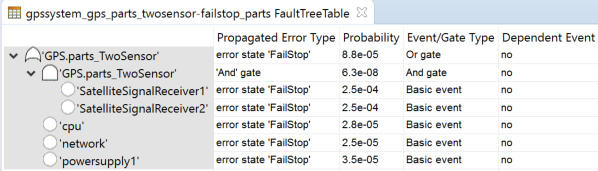
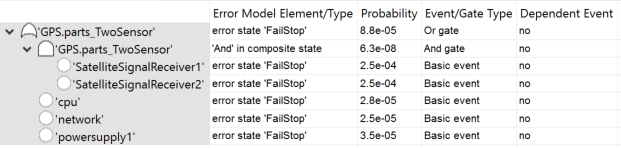
more updated figures and text.

diff --git a/emv2/org.osate.aadl2.errormodel.contrib/doc/safetyanalysis.md b/emv2/org.osate.aadl2.errormodel.contrib/doc/safetyanalysis.md
@@ -138,29 +138,45 @@ Intermediate events represent events whose subevents are combined by logic gates
 
 >Note that **Kof(1)** is the same as **Xor** of single elements, and **KOrMore(1)** is the same as **Or** of single elements.
 
-Eclipse Sirius is automatically invoked to visualize the fault trees graphically and in table format. An example graphical presentation of a fault tree shows the different event types. Each fault tree event shows the name of the component instance and incoming or outgoing feature in the first line. The second line identifies the propagated error type as **effect** and in case of an error source its name as **failure source**, and the third line the computed or assigned occurence probability. 
+Eclipse Sirius is automatically invoked to visualize the fault trees in table or graphical view. 
+
+An example graphical view of a fault tree (shown below) illustrates the different event types. The graphical view uses a compact presentation of events and gates by showing events as rectangles and the gate type as part of an event with multiple subevents. 
+Each fault tree event rectangle contains an icon reflecting the event type or gate logic type as well as three lines of text: 
+
+* The first line shows the name of the component instance and incoming or outgoing feature or binding point. 
+* The second line identifies the error model element represented by the fault tree event. Typically this is the error type of an error propagation, an error event, or error state, and in the case of an intermediate event that represents a logic condition, the gate logic and construct containing the logic condition.
+* The third line shows the computed or assigned occurence probability. 
+
+![FlightSystemTier1Graphic](images/flightsystemtier1.png "FlightSystemTier1Graphic")
+The example graphical view shows the following:
+
 * The top level fault tree event shows the outgoing features and propagated error type representing the outgoing error propagation selected by the user in the dialog. 
 * The basic events for components **FlightControl** and **AutoFlightGuidance** show an error type from an error soruce as effect through an outgoing features. 
 * An **undeveloped** event for component **AutoFlightGuidance** shows an incoming propagation from the **powersupply** incoming feature that has not been connected yet. 
 * Finally, an **external** event for component **flightsystem_tier1** shows an error type as incoming effect from outside the flight system.
-* 
-![FlightSystemTier1Graphic](images/flightsystemtier1.png "FlightSystemTier1Graphic")
 
-The table view of a fault tree shows the fault tree events hierarchically nested in the first column. The icon and the text in this column is the same as the first two lines of the graphical fault tree representation. The second column indicates the type of event, and in the case of an intermediate event the type of gate logic. The third column shows the occurrence probability as assigned or computed. The fourth column indicates whether the fault tree event is a common subevent to multiple events. The example shows a top level event with three basic subevents and one intermediate event as **and** gate.
+An example table view is shown below for a different fault tree. The example shows a top level event with three basic subevents and one intermediate event as **and** gate with two subevents.
+
+* The first column shows the fault tree events hierarchically nested. The icon and the text in this column is the same as the first line of the graphical fault tree representation. 
+* The second column shows error model element represented by the event (line 2 of the event in the graphical view).  
+* The third column shows the occurrence probability as assigned or computed. 
+* The fourth column indicates the event type, or in the case of an intermediate event with more than one subevent the gate logic. 
+* The fifth column indicates whether the fault tree event is a common (shared) subevent to multiple events, i.e., a dependent event. 
 
 ![GPS2SensorTable](images/fta-gps2sensorstatetable.png "GPS2SensorTable")
 
-###Error State-based Composite Parts Fault Tree Generation
+###Composite Error State-based Parts Fault Tree Generation
 
-One use early in the process is a composite parts fault tree generation. In this case users define a parts model, i.e., identify the parts of each system, and specify how the error states of the parts relate to the error states of the enclosing system through composite state declarations. Note that user can define such a model with error state machines at multiple level of a system architecture. Users also do not have to specify an error state machine for each level. Instead a higher level state can be expressed in terms of subsystems more than one level down. 
->This is similar to specifying reliability block diagrams (RBD) in a compositional manner, where the logic of the composite error behavior state corresponds to the logic represented graphically by parallel and serial blocks. It replaces the RBD command previous versions of OSATE supported.
+One use early in the process is a composite parts fault tree generation. In this case users define a parts model, i.e., identify the parts of each system, and specify how the error states of the parts relate to the error states of the enclosing system through composite state declarations. Note that user can define such a model with error state machines at multiple level of a system architecture. Users also do not have to specify an error state machine for each level. Instead a higher level state can be expressed in terms of subsystems more than one level down by identifying a subcomponent inside a subcomponent as the condition element. If the identified subcomponent also has composite error behavior specifications, then the generated fault tre recursively includes the identified composite error states. 
 
 An example of a composite error behavior state declaration is shown here. 
 > In EMV2 the **1 ormore** operator is used to indicate **inclusive oOr**, while the EMV2 **Or** operator represents **exclusive or**.
 
 ![Composite Error Behavior](images/compositeerrorbehavior.png "Composite Error Behavior")
 
-In our example, the package *GPSSystem* contains the top level GPS system with a number of implementations with different levels of detail and configurations. The parts model is represented by the system implementation *gps.parts_SingleSensor*. In this case, the fault tree analysis constructs a complete system fault tree from fault tree fragments based on the composite state declarations for a user-selected error state of the top-level system.
+In our example, the package *GPSSystem* contains the top level GPS system with a number of implementations with different levels of detail and configurations. The parts model is represented by the system implementation *gps.parts_TwoSensor*. The composite error behavior specifies that the state **FailStop** for **GPS** holds if both sensors that act as satellite signal receivers fail (AND), or any of the other parts fail. 
+
+>This is similar to specifying reliability block diagrams (RBD) in a compositional manner, where the logic of the composite error behavior state corresponds to the logic represented graphically by parallel and serial blocks. The **parts fault tree** replaces the RBD command from earlier versions of OSATE.
 
 Occurrence probability of the system error state (failure mode) is computed from the occurrence probability values assigned to the error states of the leaf nodes. The figure below shows the assignment of the occurrence probability value to the power supply.
 
@@ -170,20 +186,27 @@ Occurrence probability of the system error state (failure mode) is computed from
 > Occurrence probability is computed from the occurrence probability on error states of the parts. This allows you to use of an error state machine with states only, i.e., without specification of error events and transitions. If an error state machine has been included with error events and transitions, and you want the error event included in the generated fault tree, then use the propagation graph based fault tree generation.
 
 The resulting graphical fault tree looks like this.
-![GPS Composite FTA](images/fta-gps1sensor.png "GPS Composite FTA")
+![GPS Composite FTA](images/fta-gps2sensorstate.png "GPS Composite FTA")
 
-### Fault Tree Derived from Backward Trace of Propagation Graph
-In this case, the propagation paths in the propagaation graph are traversed backward to construct a fault tree representation. In other words, propagation paths along connections, bindings, and user declared propagation paths, as well as error flows from incoming propagations to outgoing propagations are interpreted. If component error behavior in terms of error behavior state machines with error events, states, transitions, and outgoing ppropagation conditions are presents, they are interpreted resulting in a higher fidelity propagation graph and fault tree.
+###Flow-Based Fault Trees Generated from Backward Trace of Error Propagations
+A flow-based backward trace traverses propagation paths along connections, bindings, and error flows from incoming propagations to outgoing propagations are interpreted. If component error behavior specifies error behavior state machines with error events, states, transitions, and outgoing propagation conditions, then they are interpreted resulting in a higher fidelity fault tree.
 
-In its simplest form the analysis traces back from a user identified outgoing error propagation and error type of interest for the top-level system. In our example, this is represented by the top-level system implementation gps.basic.
+The starting point of a flow-based fault tree generation is an outgoing error propagation and error type of interest for the system instance, to which the fault tree analysis command is applied. This outgoing propagation represents the external effect a system function or service can have on its operational environment. The backward trace proceeds along propagation paths and error flows/component error bheaviors until it encounters an error source (Basic event), an error event (Basic event), or an incoming error propagation that does not have a propagation path due to an absent connection or binding (Undeveloped event), or an incoming error propagation of the top-level system (External event). 
 
-This propagation represents the external effect a system function or service can have on its operational environment. The backward trace continues until it encounters an error source, or an incoming error propagation that does not have a propagation path due to an absent connection or binding. An example of an intentionally unconnected incoming error propagation is an incoming propagation of the top level system. An example is shown in the figure below for the satellite signal coming to the satellitesignalreceiver.
+In the case of a **fault contributor trace** every stop of the backward trace is reflected in generated structure. The same component and error model element may be reached multiple times, i.e., it represents a dependent event. In this case, each copy of the shared event (or event subtree) is tagged accordingly. 
 
-![GPS flow-based FTA](images/fta-gps2.png "GPS flow-based FTA")
+An example fault contributor trace is shown for the system **GPS.basic**. The example shows a trace to the error source of the **network** component and to the error event of the **powersupply1** component. Both are marked as dependent events as they are reached via both **SatelliteSignalReceiver1** and **SatelliteSignalReceiver2**. The trace also shows an exernal event in teh form of a **satellitesignal** coming into the **GPS** system.
 
->The resulting fault tree is flattened during the generation. For example, the error source contributions of three successive components are represented as Events under a single OR gate instead of a right recursive tree of binary OR operators. Flattening has the effect that components may not show if they do not have fault contributors. For example, a software component itself may not show as contributor, if no error source or event has been specified for it, but the processor the software component is bound will show as contributor – illustrated in the example above by the event named Processing_processor_serviceomission
-Some components may be included multiple times in a fault tree. For example, a single source component whose output is fanned out along multiple paths and then brought together, or a processor with multiple software components bound to it. Such components are actually a single instance that is linked to by multiple gates in the fault tree. If the same component occurs multiple times directly under a gate it is listed only once. In our example above, the power supply is such a component.
+![GPS Fault Trace](images/gps-faulttrace.png "GPS Fault Trace")
 
+When the user selects **Fault tree with computed occurrence probability** the fault contributor trace is flattened by removing intermediate events with a single subevent. In addition a set of transformations are applied to reduce the presence of dependent events by moving events and event subtrees up until they are no longer shared. 
+
+The generaeted fault tree for our **GPS.basic** example is shown below. The **powersupply1** and **network** components contribute an **error event** and **error source** respectively. Those vents have been moved up to become subevents under the top-level system event connected via an OR gate. Note that these events were dependent events in the fault contributor trace.
+
+![GPS flow-based FTA](images/fta-gps-basic.png "GPS flow-based FTA")
+
+When the user selects **Minimal Cutsets with computed occurrence probability** the analysis generates a set of minimal cutsets for the system. The collection of cutsets is represented as an **OR**, while the elements in each cutset are added together. 
+![GPS cutset](images/gps-basic-cutset.png "GPS cutset")
 
 ### Mapping of EMV2 Constructs into Fault Tree Elements
 The fault tree generator maps EMV2 constructs into fault tree Events and Gates as follows:
